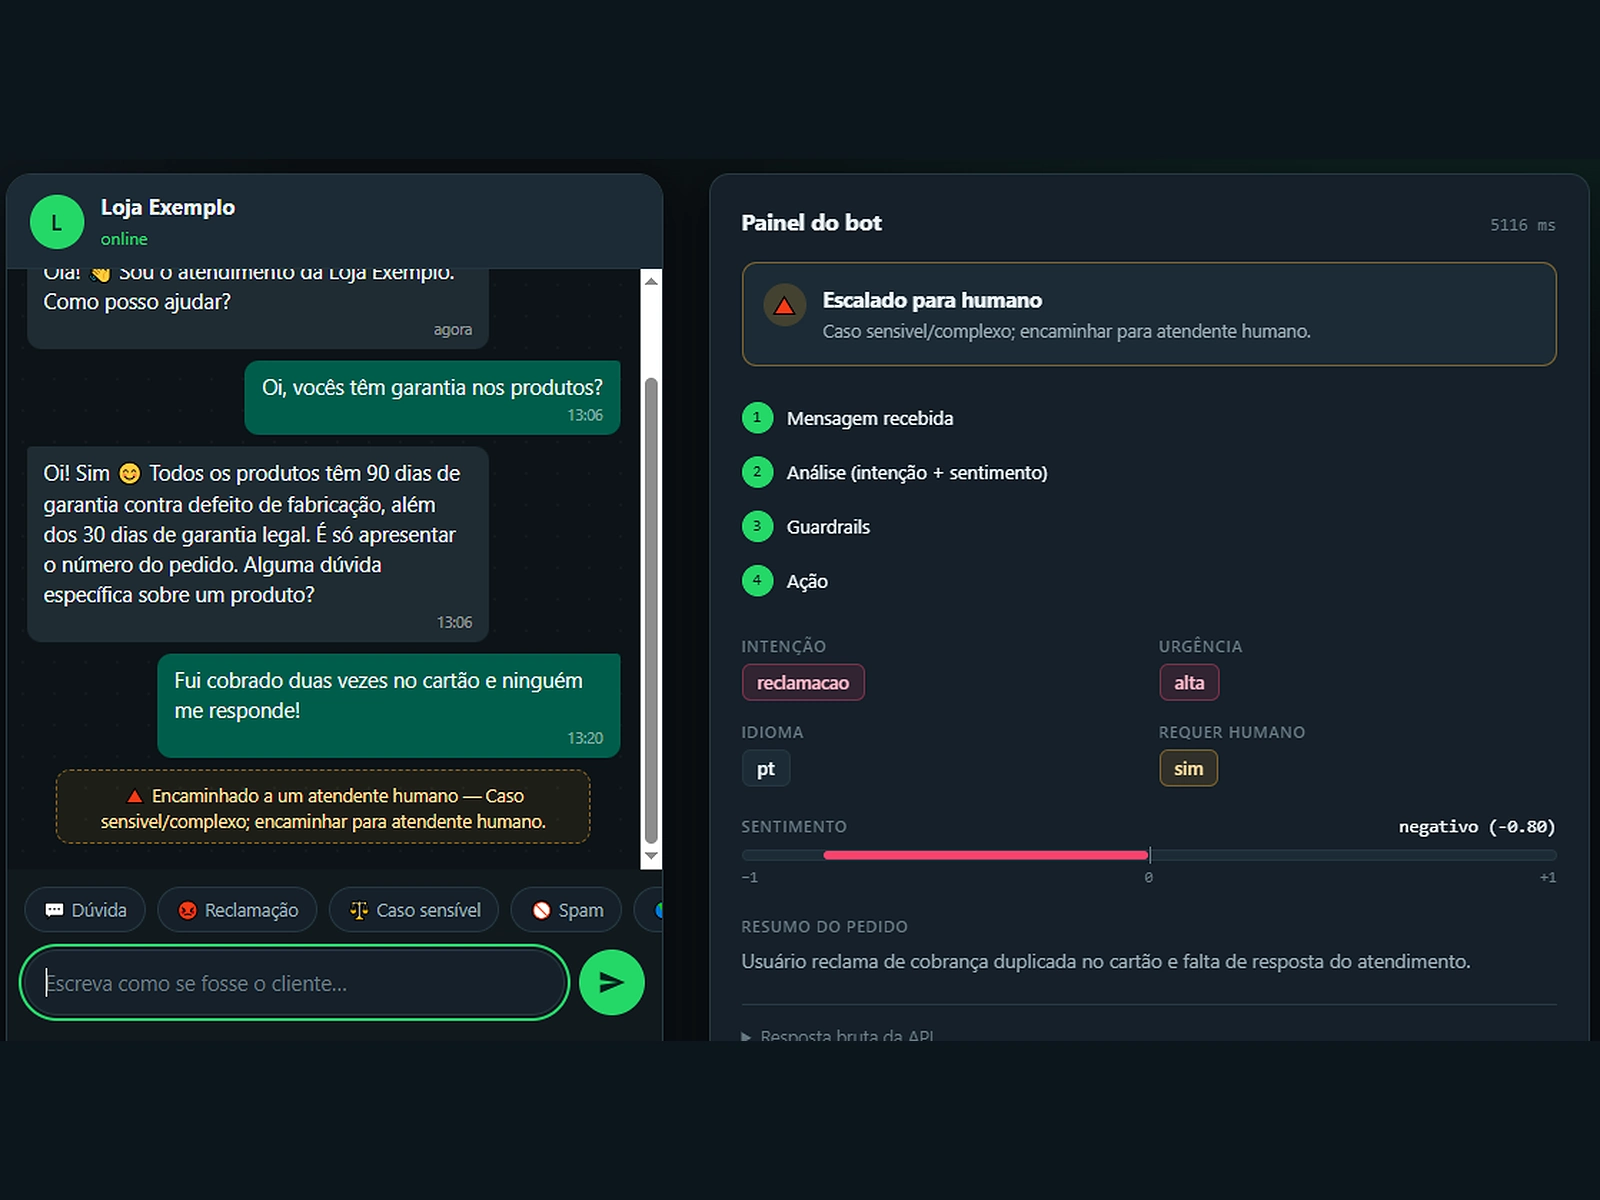
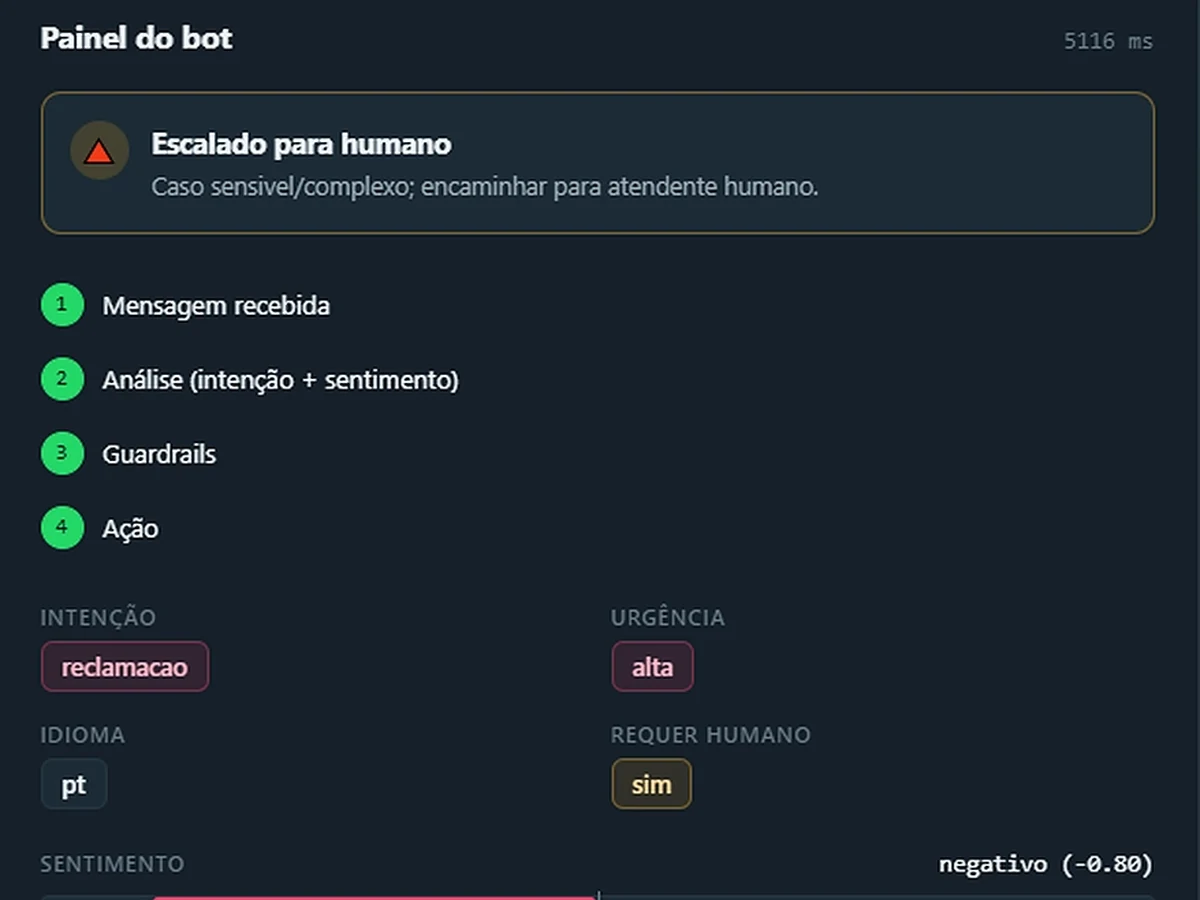
feat: capas 1 e 2 como recorte de detalhe, legiveis no card
As capas mostravam a interface inteira. No card (414px) o texto ficava
ilegivel e as tres viravam retangulos escuros parecidos, indistinguiveis
sem clicar.

Cards 1 e 2 passam a mostrar a regiao que conta: a conversa em que o bot
responde sozinho, e o painel classificando reclamacao / urgencia alta /
sentimento negativo e escalando para humano.

Card 3 fica inalterado: a tela e larga e de texto corrido, e todo recorte
4:3 testado cortava frase no meio.

Dimensoes menores que os 1600x1200 anteriores, e isso e correto: o alvo e
2x a largura do card (828px) medida na REGIAO recortada, nao na tela
inteira. Card 2 tem 878px de regiao; card 1 tem 645px, um pouco abaixo do
ideal retina, ainda assim muito acima do card 1x.

diff --git a/pages/index.html b/pages/index.html
@@ -93,12 +93,12 @@
 
             <div class="col-lg-4 col-md-6">
               <div class="portfolio-content h-100">
-                <img src="assets/img/portfolio/wppbot-1.webp" class="img-fluid" alt="WppBot: conversa do cliente e painel de decisão do bot lado a lado">
+                <img src="assets/img/portfolio/wppbot-1.webp" class="img-fluid" alt="WppBot: conversa no WhatsApp em que o cliente pergunta sobre garantia e o bot responde sozinho com o prazo de 90 dias">
                 <div class="portfolio-info">
-                  <h4>Atendimento em tempo real</h4>
-                  <p>A conversa do cliente e a decisão do bot lado a lado.</p>
+                  <h4>A conversa</h4>
+                  <p>O cliente pergunta, o bot responde sozinho — com o dado certo.</p>
                   <div>
-                    <a href="assets/img/portfolio/wppbot-1.webp" title="WppBot — atendimento em tempo real" data-gallery="portfolio-gallery-wppbot" class="glightbox preview-link"><i class="bi bi-zoom-in"></i></a>
+                    <a href="assets/img/portfolio/wppbot-1.webp" title="WppBot — a conversa" data-gallery="portfolio-gallery-wppbot" class="glightbox preview-link"><i class="bi bi-zoom-in"></i></a>
                   </div>
                 </div>
               </div>
@@ -106,12 +106,12 @@
 
             <div class="col-lg-4 col-md-6">
               <div class="portfolio-content h-100">
-                <img src="assets/img/portfolio/wppbot-2.webp" class="img-fluid" alt="WppBot: conversa no WhatsApp com resposta automática e encaminhamento para atendente humano">
+                <img src="assets/img/portfolio/wppbot-2.webp" class="img-fluid" alt="WppBot: painel do bot classificando a mensagem como reclamação de urgência alta, sentimento negativo, e escalando para atendente humano">
                 <div class="portfolio-info">
-                  <h4>Triagem da conversa</h4>
-                  <p>Responde sozinho ou encaminha o caso sensível para um humano.</p>
+                  <h4>A decisão do bot</h4>
+                  <p>Classifica intenção, urgência e sentimento — e escala quando precisa.</p>
                   <div>
-                    <a href="assets/img/portfolio/wppbot-2.webp" title="WppBot — triagem da conversa" data-gallery="portfolio-gallery-wppbot" class="glightbox preview-link"><i class="bi bi-zoom-in"></i></a>
+                    <a href="assets/img/portfolio/wppbot-2.webp" title="WppBot — a decisão do bot" data-gallery="portfolio-gallery-wppbot" class="glightbox preview-link"><i class="bi bi-zoom-in"></i></a>
                   </div>
                 </div>
               </div>
